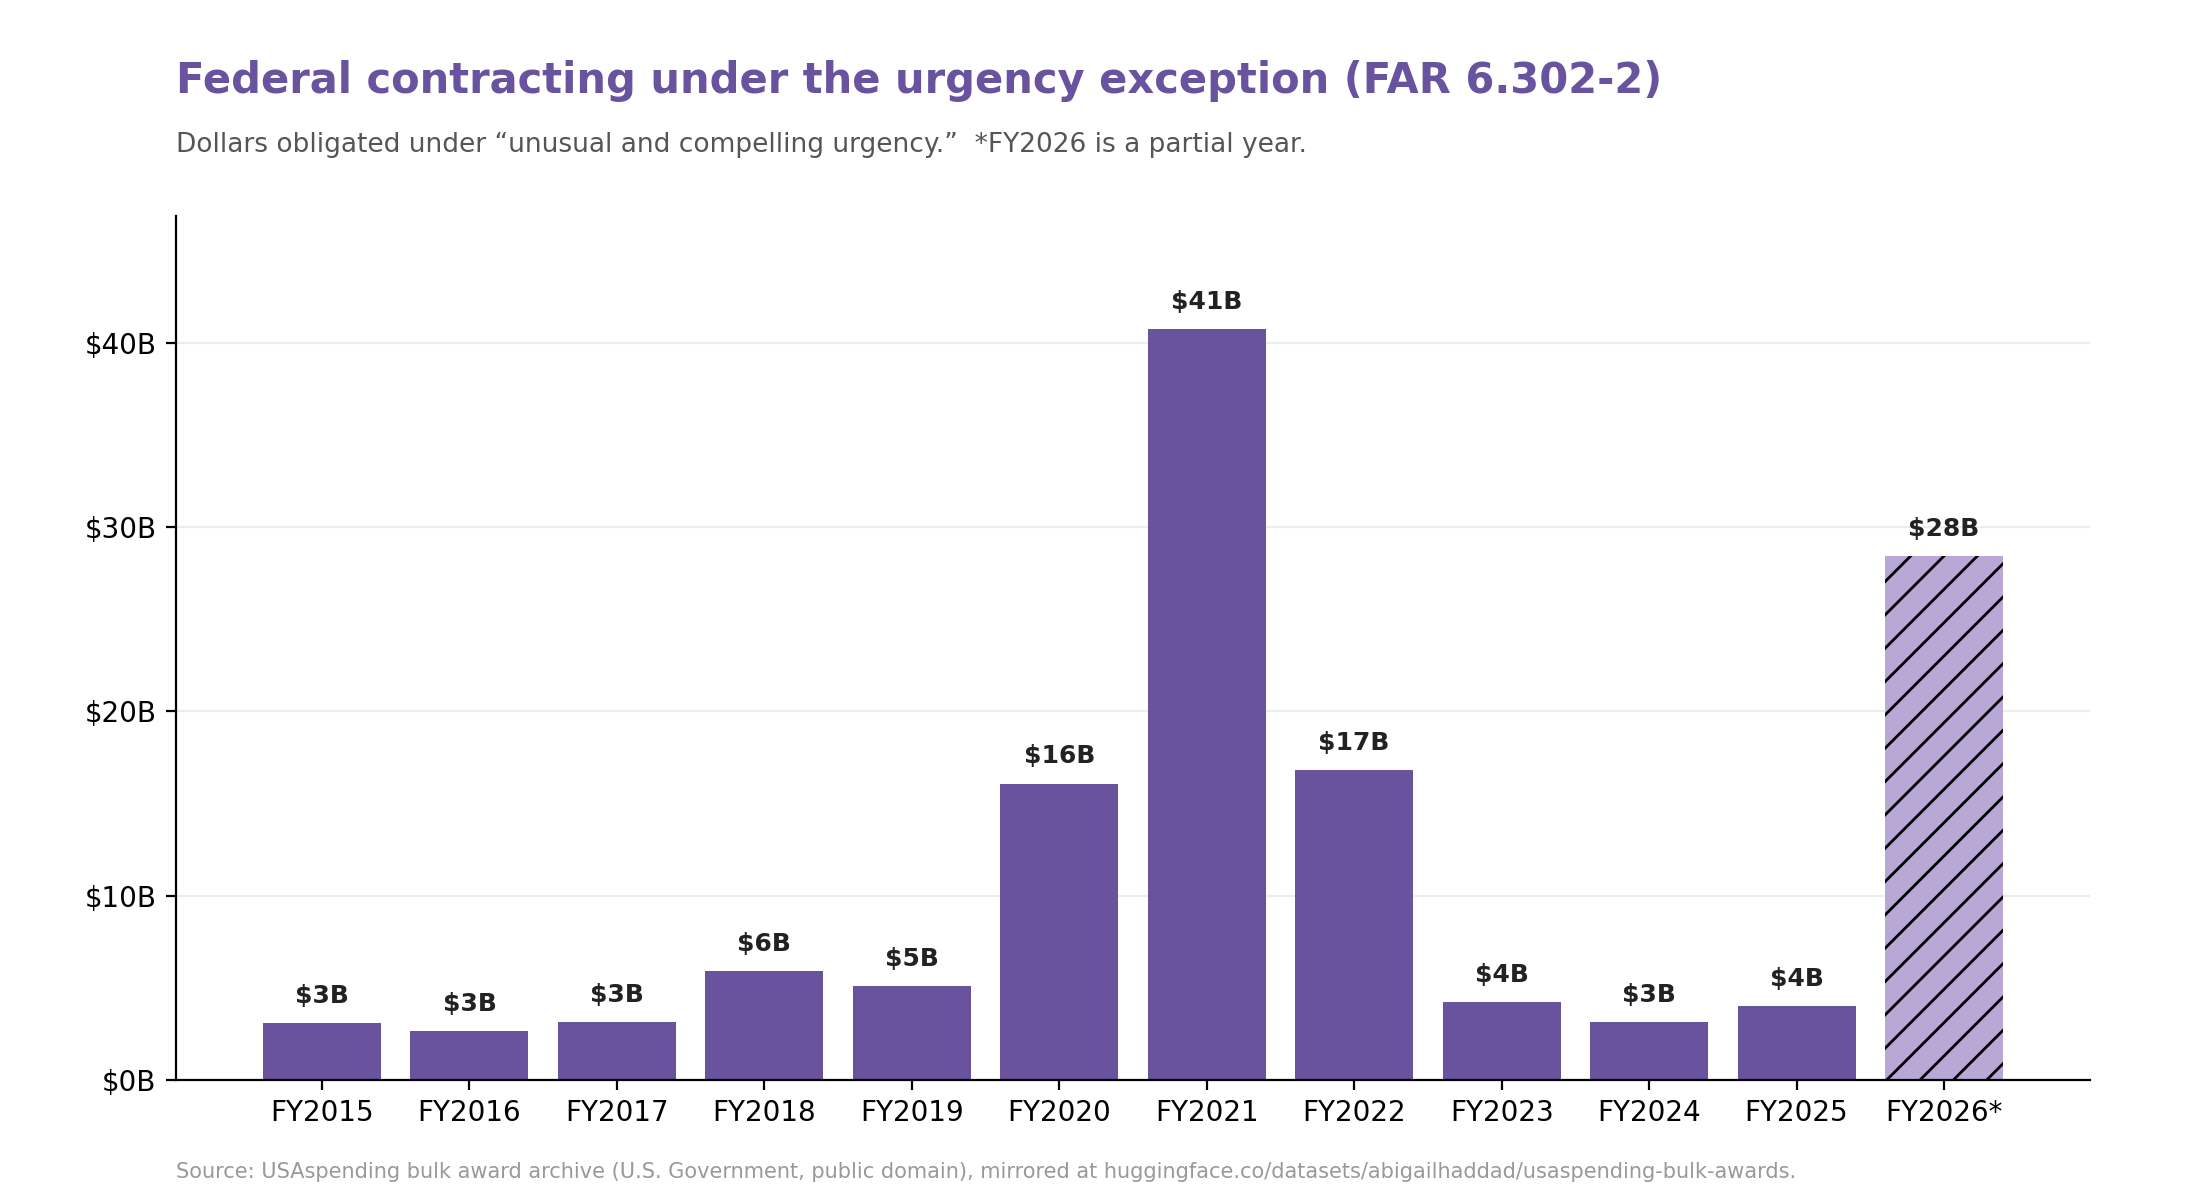
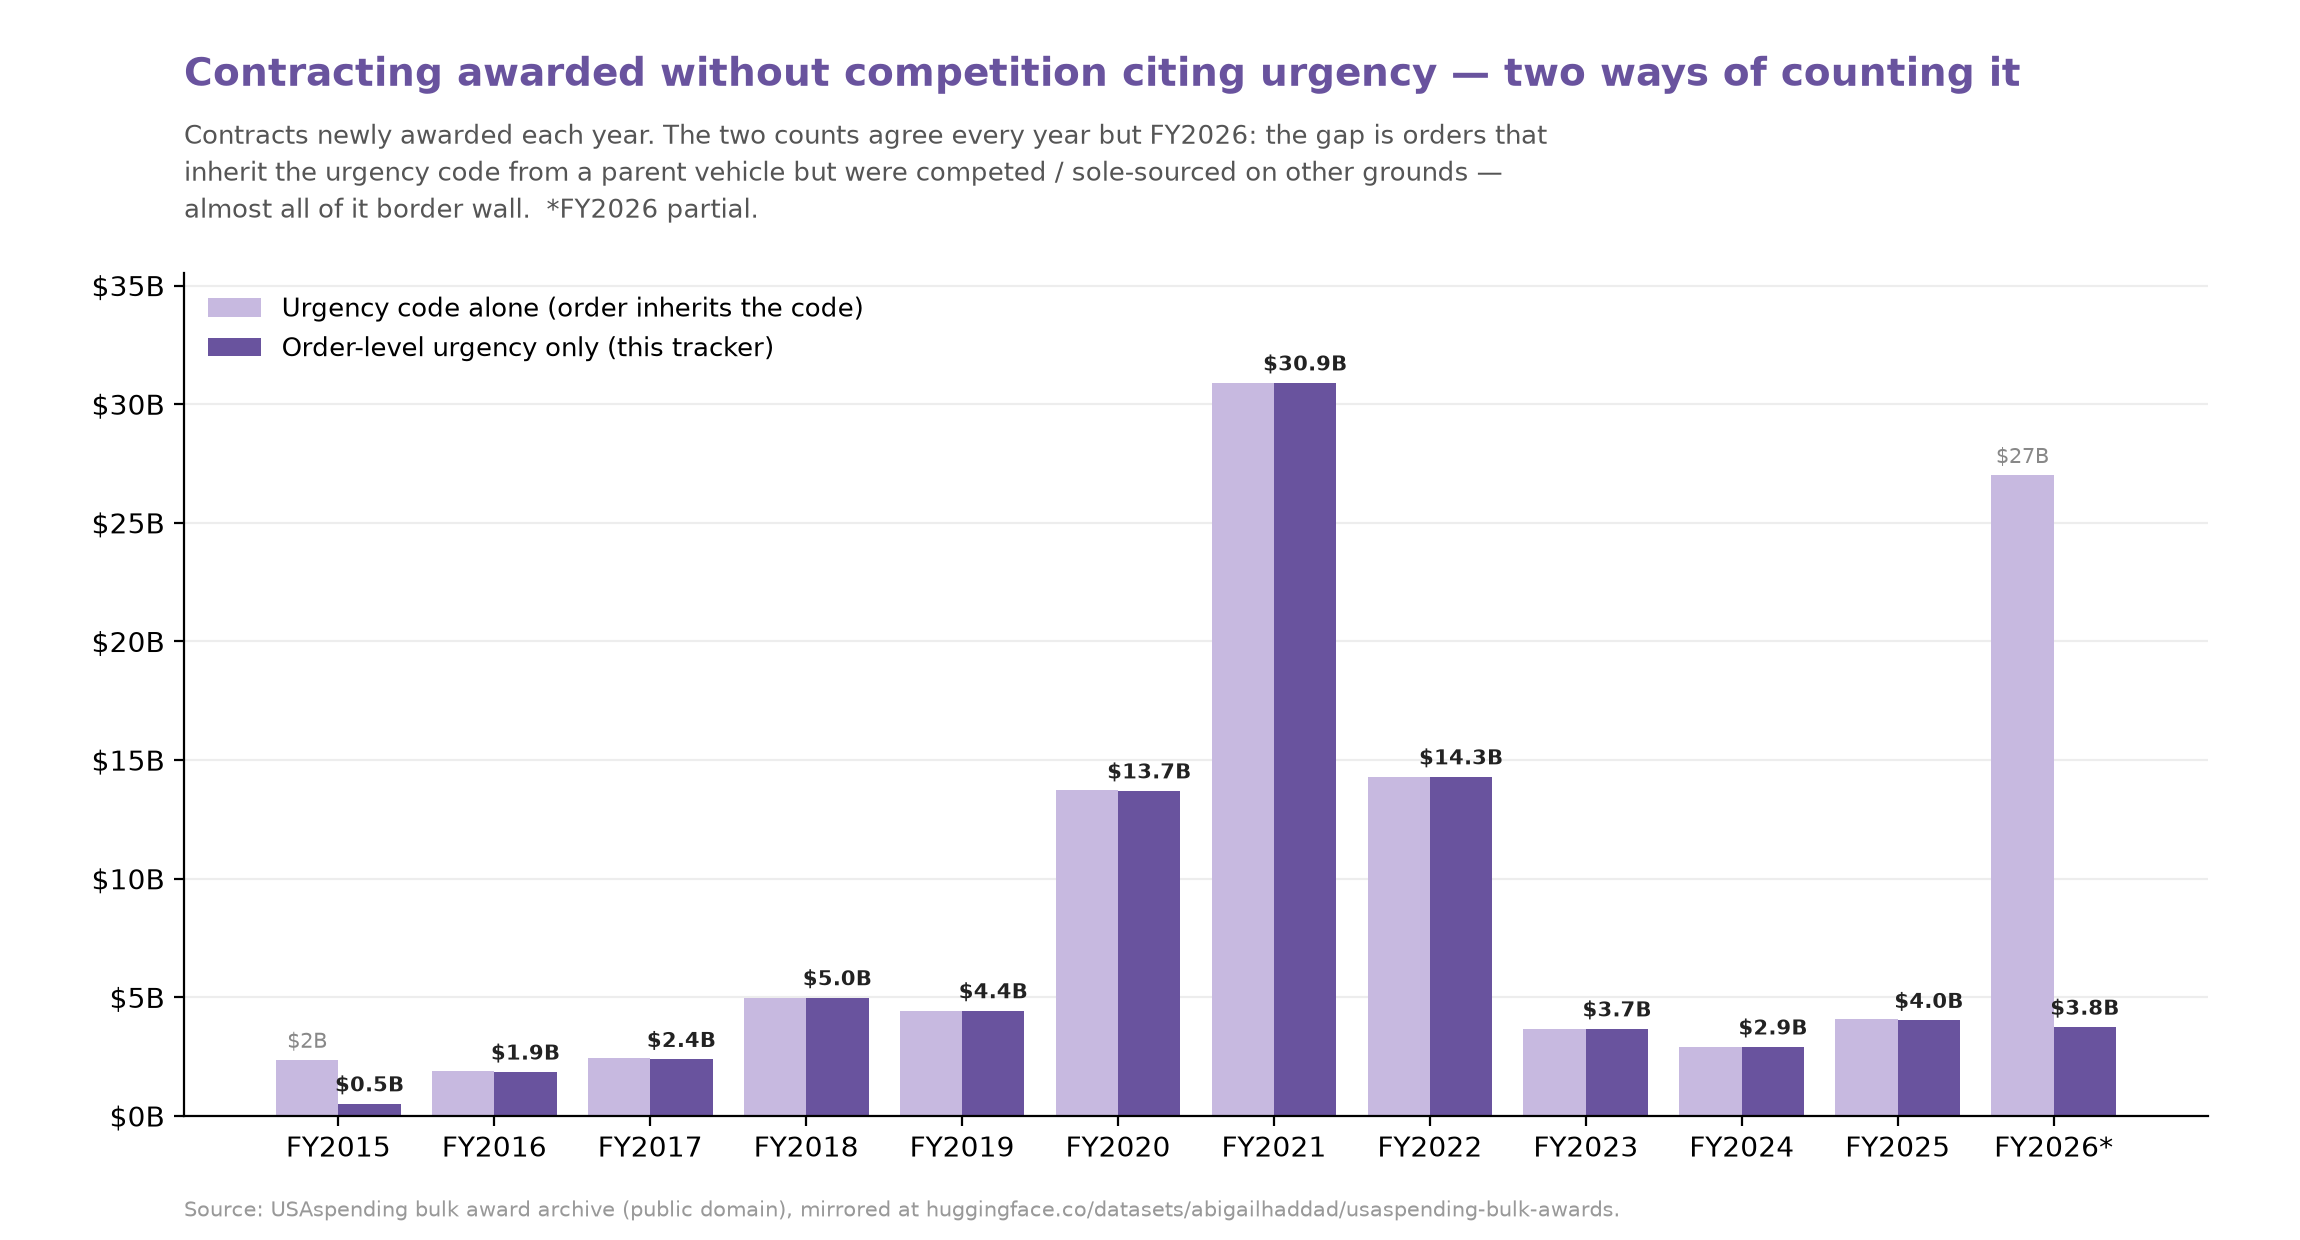
Charts: two-method trend comparison + neutral methodology writeup
Regenerate the trend as a grouped comparison — urgency code alone vs.
order-level urgency (this tracker) — computed from the HF mirror. The two
counts match every year but FY2026 ($27B code-alone vs. $3.8B order-level),
where border-wall delivery orders inherit the urgency code but weren't
sole-sourced for urgency at the order level. Rewrite README "What I found"
to present both counts neutrally and explain the divergence.

diff --git a/scripts/make_charts.py b/scripts/make_charts.py
@@ -1,0 +1,101 @@
+"""Regenerate the README charts. Produces a TWO-METHOD trend comparison (filtering the raw
+urgency code vs. checking the order-level competition field) plus the corrected top-awards
+chart. One HuggingFace pass per year; both series computed in a single query.
+
+    python scripts/make_charts.py
+      -> urgency_trend.png          (comparison: urgency code alone vs. order-level urgency)
+      -> urgency_top_fy2026.png     (largest awards under the corrected method)
+"""
+import duckdb
+import matplotlib.pyplot as plt
+import matplotlib.ticker as mticker
+
+plt.rcParams["text.parse_math"] = False
+RAW = "#c7b9e0"      # light — "urgency code alone"
+CORR = "#69539E"     # accent — "order-level urgency" (this tracker)
+SERVE = "https://huggingface.co/datasets/abigailhaddad/usaspending-bulk-awards/resolve/main/serve/contracts"
+con = duckdb.connect(); con.execute("INSTALL httpfs; LOAD httpfs;")
+
+
+def yr(fy):
+    return f"read_parquet('{SERVE}/{fy}.parquet')"
+
+
+# Per year, award-level, contracts newly AWARDED that year: dollars two ways —
+#   raw       = the urgency code alone (what a naive filter gives)
+#   corrected = minus orders whose ORDER-LEVEL basis (fair_opportunity) is non-urgency,
+#               i.e. that merely inherited the urgency code from a parent vehicle.
+fys, raw, corr = [], [], []
+for fy in range(2015, 2027):
+    try:
+        r, c = con.execute(f"""
+          WITH a AS (
+            SELECT award_id_piid, sum(federal_action_obligation) oblig,
+                   bool_or(modification_number IN ('0','P00000')) awarded,
+                   COALESCE(bool_or(fair_opportunity_limited_sources IS NOT NULL
+                            AND fair_opportunity_limited_sources NOT ILIKE '%URGEN%'), FALSE) inherited
+            FROM {yr(fy)} WHERE other_than_full_and_open_competition ILIKE '%URGENCY%'
+            GROUP BY award_id_piid)
+          SELECT COALESCE(sum(oblig) FILTER (WHERE awarded), 0),
+                 COALESCE(sum(oblig) FILTER (WHERE awarded AND NOT inherited), 0)
+          FROM a""").fetchone()
+    except Exception as e:
+        print(f"  FY{fy}: skipped ({str(e)[:50]})"); continue
+    fys.append(fy); raw.append(float(r) / 1e9); corr.append(float(c) / 1e9)
+    print(f"  FY{fy}: raw ${raw[-1]:.1f}B  ->  order-level ${corr[-1]:.1f}B", flush=True)
+
+# ── comparison trend ─────────────────────────────────────────────────────────
+import numpy as np
+x = np.arange(len(fys)); w = 0.4
+fig, ax = plt.subplots(figsize=(11.5, 6.2))
+fig.subplots_adjust(top=0.78, bottom=0.10, left=0.08, right=0.96)
+ax.bar(x - w/2, raw, w, color=RAW, label="Urgency code alone (order inherits the code)")
+ax.bar(x + w/2, corr, w, color=CORR, label="Order-level urgency only (this tracker)")
+for i in range(len(fys)):
+    if raw[i] - corr[i] > max(raw) * 0.03:       # only label where they visibly differ
+        ax.text(x[i] - w/2, raw[i] + max(raw)*0.01, f"${raw[i]:,.0f}B", ha="center", va="bottom", fontsize=7.5, color="#888")
+    ax.text(x[i] + w/2, corr[i] + max(raw)*0.01, f"${corr[i]:,.1f}B", ha="center", va="bottom", fontsize=7.5, fontweight="bold", color="#222")
+ax.set_xticks(x); ax.set_xticklabels([f"FY{f}" + ("*" if f == 2026 else "") for f in fys], fontsize=10)
+ax.yaxis.set_major_formatter(mticker.FuncFormatter(lambda v, _: f"${v:,.0f}B"))
+ax.set_ylim(0, max(raw) * 1.15)
+ax.spines[["top", "right"]].set_visible(False)
+ax.grid(axis="y", color="#ededed", lw=0.8); ax.set_axisbelow(True)
+ax.legend(loc="upper left", frameon=False, fontsize=9.5)
+fig.text(0.08, 0.955, "Contracting awarded without competition citing urgency — two ways of counting it",
+         fontsize=14, fontweight="bold", color=CORR, ha="left", va="top")
+fig.text(0.08, 0.905,
+         "Contracts newly awarded each year. The two counts agree every year but FY2026: the gap is orders that\n"
+         "inherit the urgency code from a parent vehicle but were competed / sole-sourced on other grounds —\n"
+         "almost all of it border wall.  *FY2026 partial.",
+         fontsize=9.5, color="#555", ha="left", va="top", linespacing=1.4)
+fig.text(0.08, 0.015,
+         "Source: USAspending bulk award archive (public domain), mirrored at "
+         "huggingface.co/datasets/abigailhaddad/usaspending-bulk-awards.",
+         fontsize=7.5, color="#999", ha="left", va="bottom")
+fig.savefig("urgency_trend.png", dpi=200, facecolor="white")
+print("wrote urgency_trend.png", flush=True)
+
+# ── corrected top FY2026 awards ──────────────────────────────────────────────
+KEEP = """WHERE other_than_full_and_open_competition ILIKE '%URGENCY%' GROUP BY award_id_piid
+  HAVING NOT COALESCE(bool_or(fair_opportunity_limited_sources IS NOT NULL
+                     AND fair_opportunity_limited_sources NOT ILIKE '%URGEN%'), FALSE)
+     AND bool_or(modification_number IN ('0','P00000'))"""
+top = con.execute(f"""
+  WITH a AS (SELECT award_id_piid piid, any_value(recipient_name) rec,
+                    sum(federal_action_obligation) oblig FROM {yr(2026)} {KEEP})
+  SELECT rec, oblig FROM a ORDER BY oblig DESC LIMIT 12""").fetchall()
+labels = [r[:26] for r, o in top][::-1]; vals = [o / 1e6 for r, o in top][::-1]
+fig2, ax2 = plt.subplots(figsize=(11, 6.5))
+fig2.subplots_adjust(top=0.85, bottom=0.08, left=0.34, right=0.96)
+ax2.barh(range(len(vals)), vals, color=CORR)
+for i, v in enumerate(vals):
+    ax2.text(v + max(vals) * 0.01, i, f"${v:,.0f}M", va="center", fontsize=8.5, color="#222")
+ax2.set_yticks(range(len(labels))); ax2.set_yticklabels(labels, fontsize=9)
+ax2.xaxis.set_major_formatter(mticker.FuncFormatter(lambda v, _: f"${v:,.0f}M"))
+ax2.set_xlim(0, max(vals) * 1.12)
+ax2.spines[["top", "right"]].set_visible(False)
+ax2.grid(axis="x", color="#ededed", lw=0.8); ax2.set_axisbelow(True)
+fig2.text(0.02, 0.95, "Largest FY2026 awards where competition was actually skipped, citing urgency",
+          fontsize=13, fontweight="bold", color=CORR, ha="left", va="top")
+fig2.savefig("urgency_top_fy2026.png", dpi=200, facecolor="white")
+print("wrote urgency_top_fy2026.png", flush=True)

diff --git a/README.md b/README.md
@@ -8,9 +8,13 @@ It all runs off my HuggingFace mirror of USAspending — you query it with DuckD
 
 ## What I found
 
-> **A note on how this is counted.** In FPDS, a delivery order *inherits* the "urgency" competition code from the parent contract vehicle it's placed against — so the order's real competition basis is the *order-level* field (`fair_opportunity_limited_sources`, FAR 16.505), not that inherited code. Filtering on the code alone sweeps in orders that were actually **competed** among the vehicle's awardees ("fair opportunity given") or sole-sourced on a **different** basis ("only one source") — for FY2026, most of the big border-wall delivery orders. The site and `urgency_contracts.py` keep an award only when its *order-level* basis is actually urgency (or it's a standalone contract, where the urgency code *is* the basis). That takes FY2026 from ~$27B (raw urgency code) down to about **$3.8B** — mostly definitive-contract sole sources plus genuine order-level urgency. (The trend chart below still reflects the raw urgency code and needs regenerating with this filter.)
+There are two defensible ways to count this, and the chart shows both.
 
-![Federal contracting under the urgency exception](urgency_trend.png)
+![Federal contracting under the urgency exception, counted two ways](urgency_trend.png)
+
+**Why two bars.** The obvious filter is the FPDS competition code `other_than_full_and_open_competition = URGENCY (FAR 6.302-2)` (the light bars). But that code has a wrinkle: a task or delivery order *inherits* it from the parent contract vehicle it's placed against. So an order can carry the urgency code while its own competition basis — the *order-level* field `fair_opportunity_limited_sources` (FAR 16.505) — says the order was actually **competed** among the vehicle's awardees ("fair opportunity given") or sole-sourced on a **different** ground ("only one source"). The dark bars keep an award only when its order-level basis is genuinely urgency, or it's a standalone contract where the Part-6 urgency code *is* the basis.
+
+For eleven of the twelve years the two counts are the same — most urgency awards are standalone sole-source contracts, so there's no parent code to inherit. They diverge in one place: **FY2026, ~$27B on the code alone vs. ~$3.8B order-level**. The gap is almost entirely border-wall delivery orders placed off larger vehicles, which carry the inherited urgency code but weren't sole-sourced *for* urgency at the order level. The live site and `urgency_contracts.py` use the order-level count (the dark bars); if you want the raw-code number instead, drop the `fair_opportunity_limited_sources` filter.
 
 ## The granular data
 
